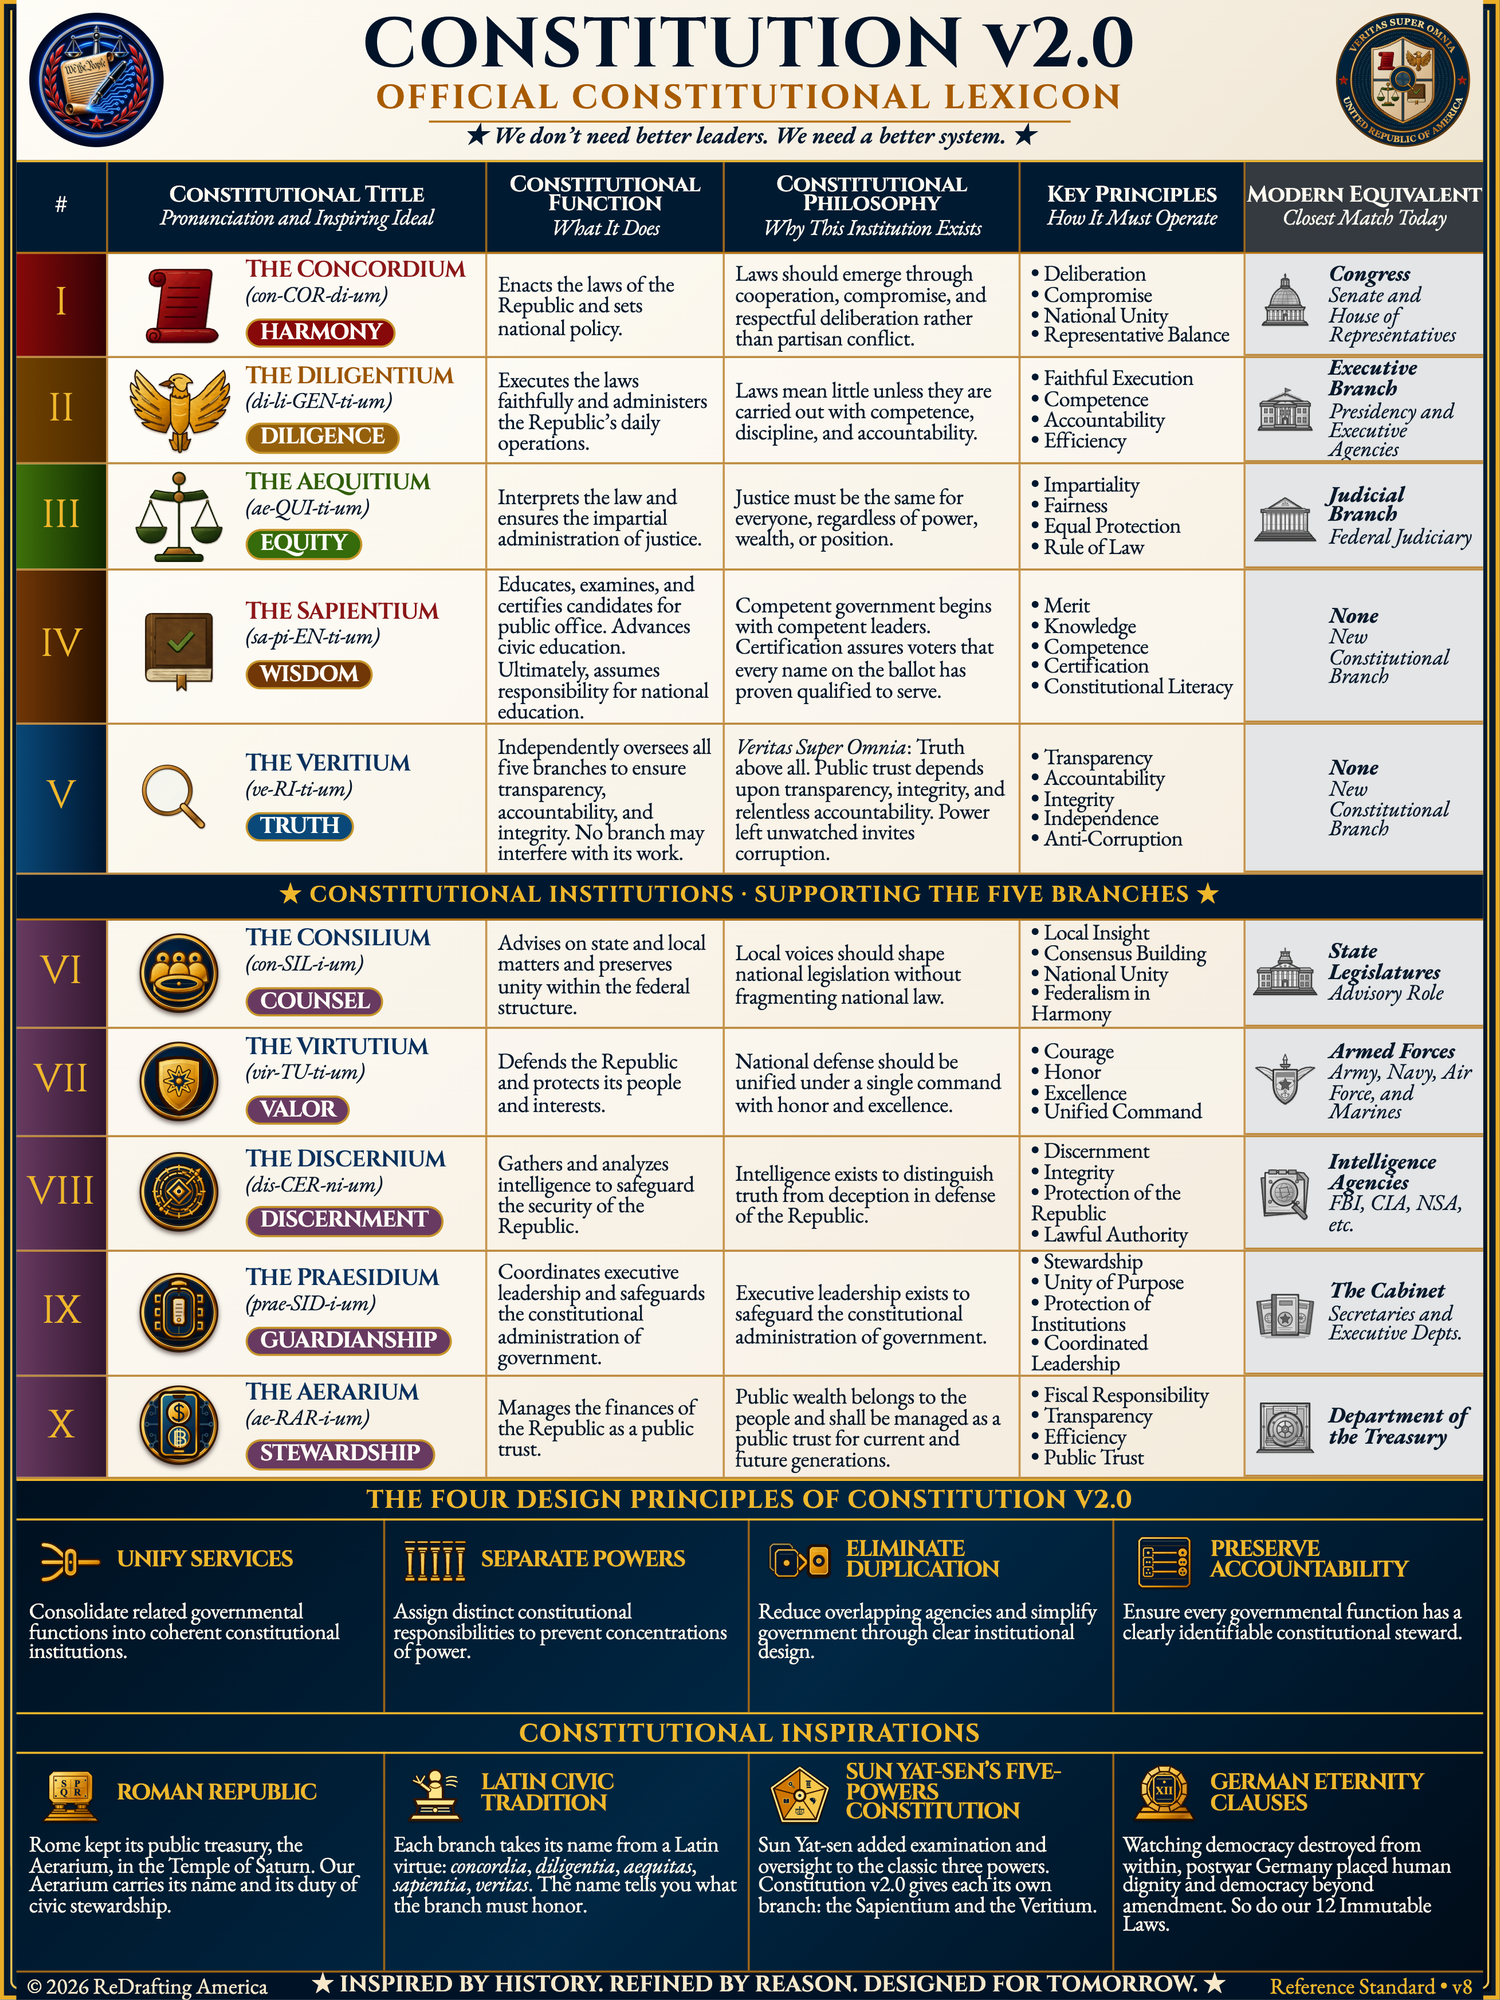
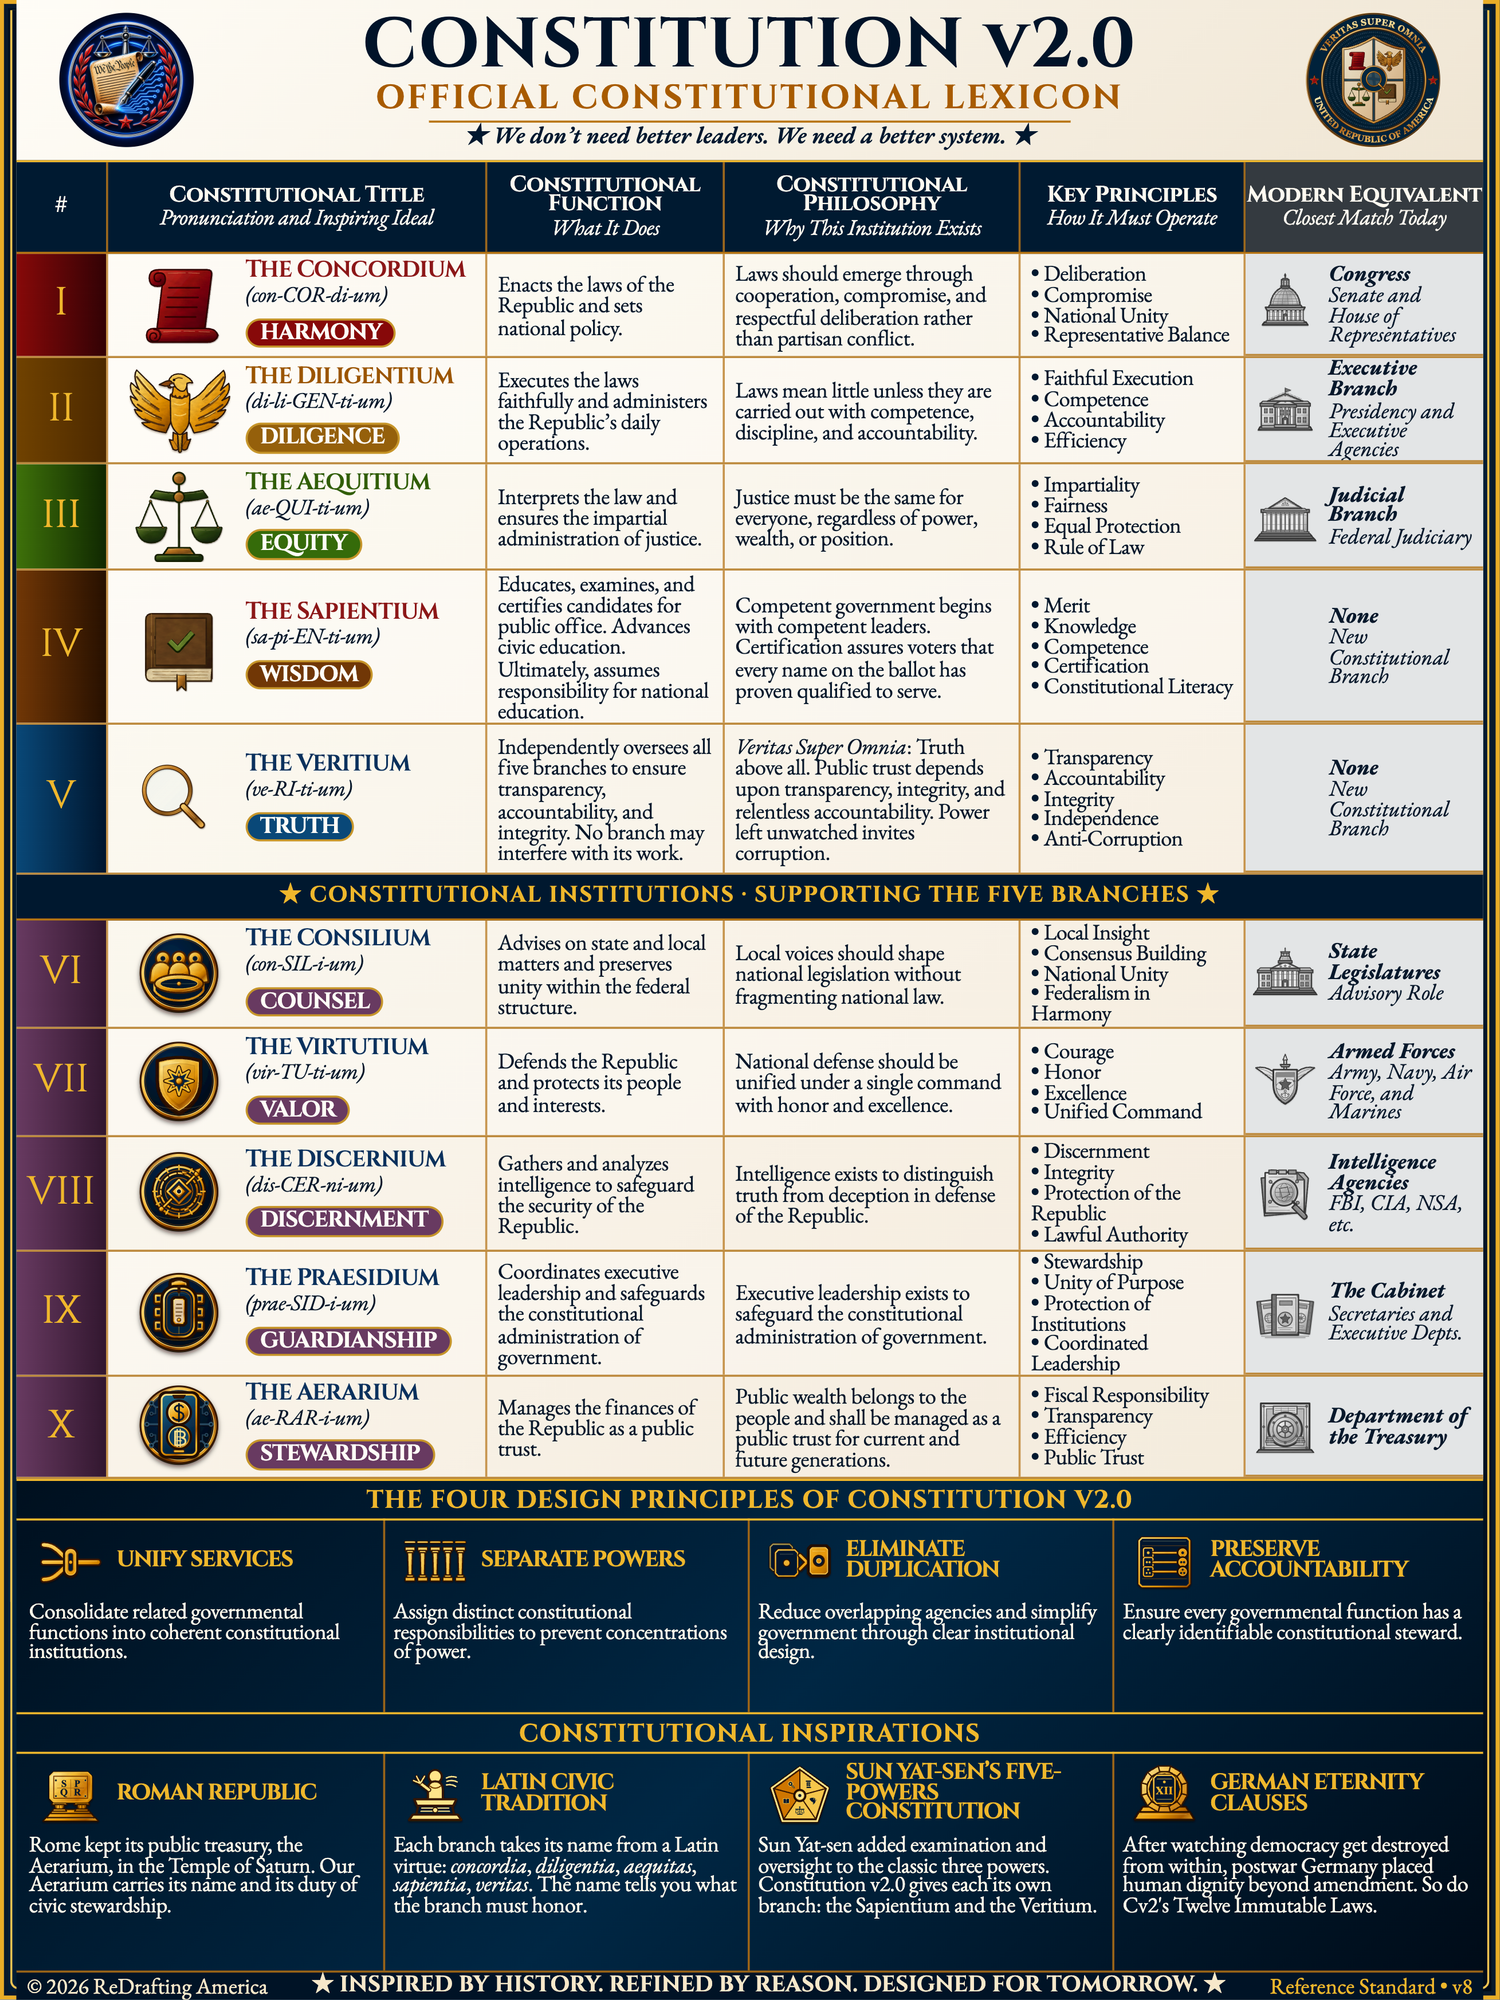
Update National Seal and Constitutional Lexicon graphics

Changed region(s): [[0.736, 0.899, 0.9813, 0.961], [0.8587, 0.0, 0.9813, 0.093], [0.0, 0.0, 0.1533, 0.093]]

diff --git a/index.html b/index.html
@@ -640,7 +640,7 @@
       <div class="split reverse lexicon-feature">
         <div class="preview-card">
           <button class="lexicon-open" id="lexicon-open" type="button" aria-haspopup="dialog" aria-controls="lexicon-dialog" aria-label="Enlarge the Constitutional Lexicon">
-            <img src="assets/images/constitution-v2-lexicon-portrait.png?v=20260924-5" width="1500" height="2000" alt="Portrait edition of the Redrafting America Constitution v2.0 Official Constitutional Lexicon, listing ten constitutional institutions with their functions and principles" loading="lazy" />
+            <img src="assets/images/constitution-v2-lexicon-portrait.png?v=20260924-6" width="1500" height="2000" alt="Portrait edition of the Redrafting America Constitution v2.0 Official Constitutional Lexicon, listing ten constitutional institutions with their functions and principles" loading="lazy" />
           </button>
         </div>
         <div>
@@ -658,8 +658,8 @@
 
   <dialog class="seal-dialog" id="lexicon-dialog" aria-label="Constitutional Lexicon full-size viewer">
     <button class="seal-dialog-close" id="lexicon-dialog-close" type="button" aria-label="Close full-size Constitutional Lexicon">&times;</button>
-    <img src="assets/images/constitution-v2-lexicon-portrait-4k.png?v=20260924-5" width="2618" height="3491" alt="Full-size portrait edition of the Redrafting America Constitution v2.0 Official Constitutional Lexicon" />
-    <a class="seal-dialog-original" href="assets/images/constitution-v2-lexicon-portrait-4k.png?v=20260924-5" target="_blank" rel="noopener">Open 2618-by-3491 image</a>
+    <img src="assets/images/constitution-v2-lexicon-portrait-4k.png?v=20260924-6" width="3000" height="4000" alt="4K portrait edition of the Redrafting America Constitution v2.0 Official Constitutional Lexicon" />
+    <a class="seal-dialog-original" href="assets/images/constitution-v2-lexicon-portrait-4k.png?v=20260924-6" target="_blank" rel="noopener">Open 3000-by-4000 image</a>
   </dialog>
 
   <!-- ================= CITIZEN PORTAL ================= -->

diff --git a/pages/about/mission.html b/pages/about/mission.html
@@ -434,7 +434,7 @@
 
   <div class="doc-hero">
     <button class="seal-open" id="seal-open" type="button" aria-haspopup="dialog" aria-controls="seal-dialog" aria-label="Enlarge the National Seal">
-      <img class="crest" src="assets/images/seal.png" width="2000" height="2000" alt="Veritas Super Omnia national seal for the United Republic of America" />
+      <img class="crest" src="assets/images/seal.png?v=20260924-1" width="2000" height="2000" alt="Veritas Super Omnia national seal for the United Republic of America" />
     </button>
     <span class="seal-enlarge-label" aria-hidden="true">Select to view full size</span>
     <p class="latin">Ex Uno Floremus &mdash; From One, We Flourish</p>
@@ -451,8 +451,8 @@
 
   <dialog class="seal-dialog" id="seal-dialog" aria-label="National Seal full-size viewer">
     <button class="seal-dialog-close" id="seal-dialog-close" type="button" aria-label="Close full-size National Seal">&times;</button>
-    <img src="assets/images/seal.png" width="2000" height="2000" alt="Full-size Veritas Super Omnia national seal for the United Republic of America" />
-    <a class="seal-dialog-original" href="assets/images/seal.png" target="_blank" rel="noopener">Open original 2000-pixel image</a>
+    <img src="assets/images/seal-4k.png?v=20260924-1" width="4000" height="4000" alt="4K Veritas Super Omnia national seal for the United Republic of America" />
+    <a class="seal-dialog-original" href="assets/images/seal-4k.png?v=20260924-1" target="_blank" rel="noopener">Open 4000-by-4000 image</a>
   </dialog>
 
   <div class="article-wrap">
